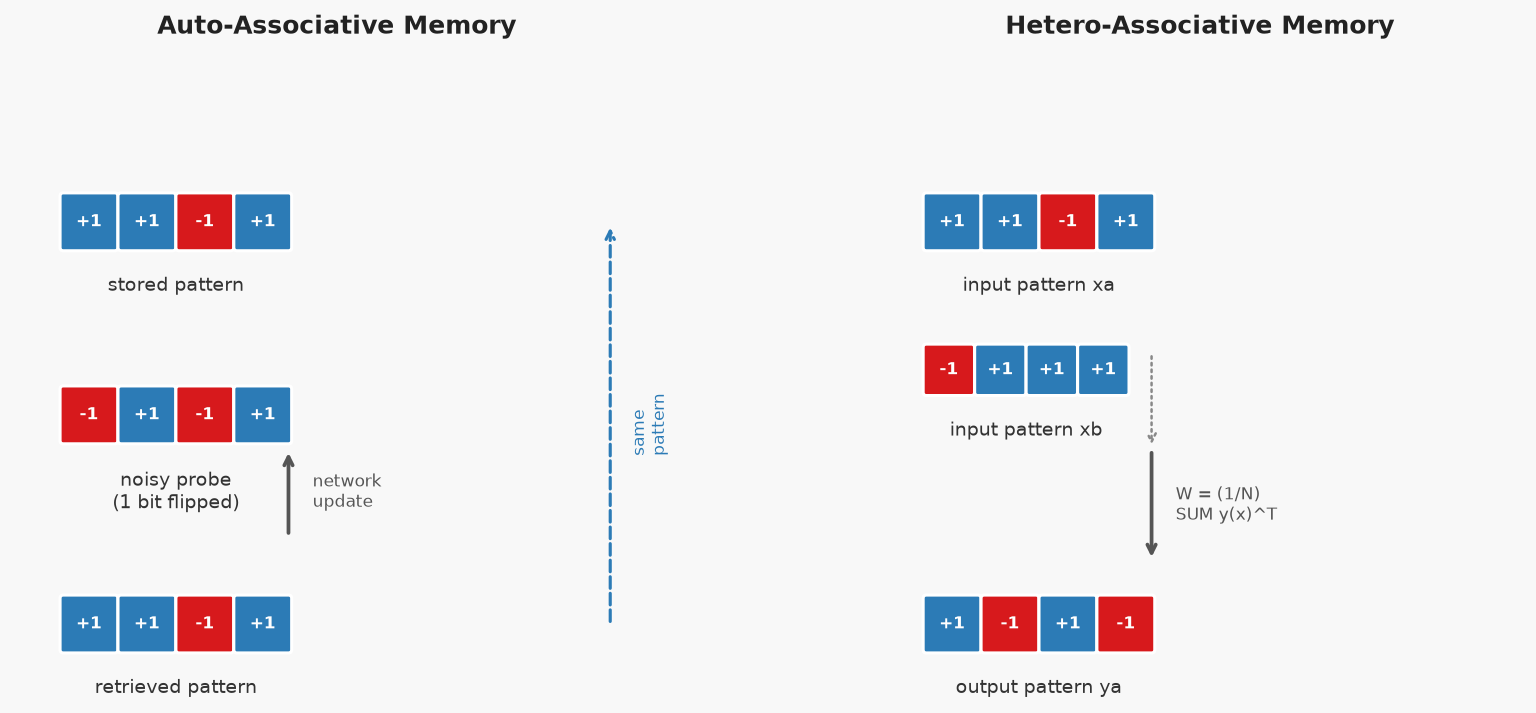
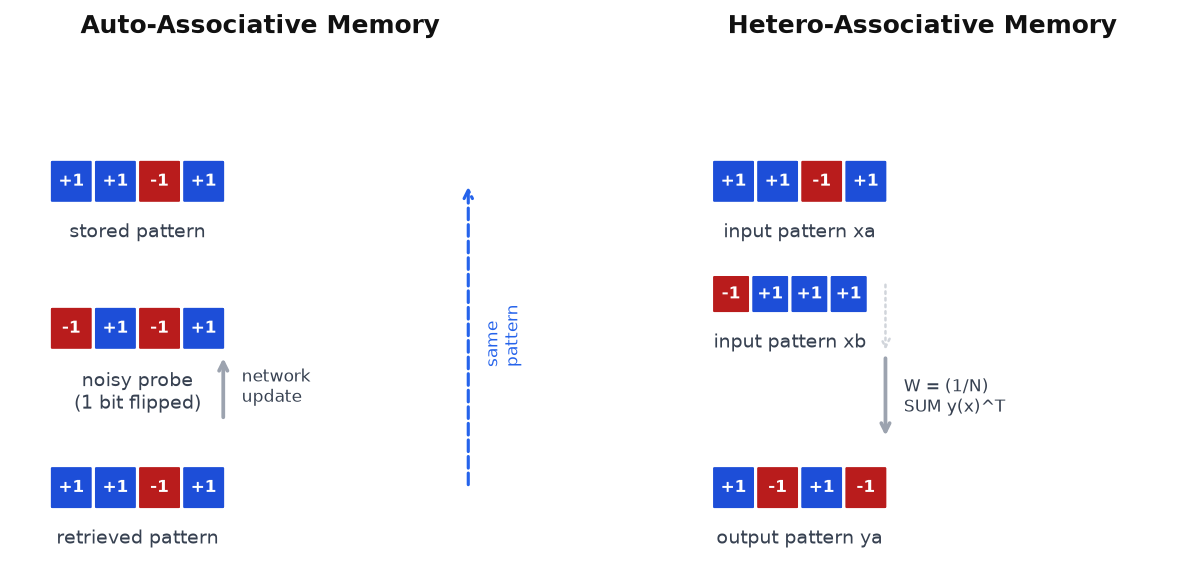
update note 18: convert all diagrams to light theme

diff --git a/notes/scripts/plot_associative_memory_types.py b/notes/scripts/plot_associative_memory_types.py
@@ -2,13 +2,13 @@ import matplotlib.pyplot as plt
 import matplotlib.patches as mpatches
 import os
 
-fig, axes = plt.subplots(1, 2, figsize=(12, 5))
-fig.patch.set_facecolor('#f8f8f8')
+fig, axes = plt.subplots(1, 2, figsize=(9, 4))
+fig.patch.set_facecolor('white')
 
 def draw_pattern(ax, x, y, pattern, label, color, size=0.32):
     n = len(pattern)
     for i, val in enumerate(pattern):
-        col = '#2c7bb6' if val == 1 else '#d7191c'
+        col = '#1d4ed8' if val == 1 else '#b91c1c'
         rect = mpatches.FancyBboxPatch(
             (x + i * (size + 0.04), y), size, size,
             boxstyle="round,pad=0.02",
@@ -19,7 +19,7 @@ def draw_pattern(ax, x, y, pattern, label, color, size=0.32):
                 '+1' if val == 1 else '-1',
                 ha='center', va='center', fontsize=8, color='white', fontweight='bold')
     total_w = n * (size + 0.04) - 0.04
-    ax.text(x + total_w / 2, y - 0.18, label, ha='center', va='top', fontsize=9, color='#333333')
+    ax.text(x + total_w / 2, y - 0.18, label, ha='center', va='top', fontsize=9, color='#374151')
 
 # ---- Left panel: Auto-associative ----
 ax = axes[0]
@@ -27,8 +27,8 @@ ax.set_xlim(0, 4)
 ax.set_ylim(0, 4)
 ax.set_aspect('equal')
 ax.axis('off')
-ax.set_facecolor('#f8f8f8')
-ax.set_title('Auto-Associative Memory', fontsize=12, fontweight='bold', pad=10, color='#222222')
+ax.set_facecolor('white')
+ax.set_title('Auto-Associative Memory', fontsize=12, fontweight='bold', pad=10, color='#111111')
 
 # Stored pattern
 draw_pattern(ax, 0.3, 2.8, [1, 1, -1, 1], 'stored pattern', '#2c7bb6')
@@ -39,13 +39,12 @@ draw_pattern(ax, 0.3, 0.3, [1, 1, -1, 1], 'retrieved pattern', '#2c7bb6')
 
 # Arrows
 ax.annotate('', xy=(1.7, 1.55), xytext=(1.7, 1.0),
-            arrowprops=dict(arrowstyle='->', color='#555555', lw=1.8))
-ax.text(1.85, 1.28, 'network\nupdate', fontsize=8, color='#555555', va='center')
+            arrowprops=dict(arrowstyle='->', color='#9ca3af', lw=1.8))
+ax.text(1.85, 1.28, 'network\nupdate', fontsize=8, color='#374151', va='center')
 
-# Brace / label showing same pattern
 ax.annotate('', xy=(3.7, 2.95), xytext=(3.7, 0.45),
-            arrowprops=dict(arrowstyle='->', color='#2c7bb6', lw=1.5, linestyle='dashed'))
-ax.text(3.82, 1.7, 'same\npattern', fontsize=8, color='#2c7bb6', va='center', rotation=90)
+            arrowprops=dict(arrowstyle='->', color='#2563eb', lw=1.5, linestyle='dashed'))
+ax.text(3.82, 1.7, 'same\npattern', fontsize=8, color='#2563eb', va='center', rotation=90)
 
 # ---- Right panel: Hetero-associative ----
 ax = axes[1]
@@ -53,26 +52,25 @@ ax.set_xlim(0, 4)
 ax.set_ylim(0, 4)
 ax.set_aspect('equal')
 ax.axis('off')
-ax.set_facecolor('#f8f8f8')
-ax.set_title('Hetero-Associative Memory', fontsize=12, fontweight='bold', pad=10, color='#222222')
+ax.set_facecolor('white')
+ax.set_title('Hetero-Associative Memory', fontsize=12, fontweight='bold', pad=10, color='#111111')
 
 # Input pattern xa
 draw_pattern(ax, 0.3, 2.8, [1, 1, -1, 1], 'input pattern xa', '#2c7bb6')
 # Output pattern ya (different)
-draw_pattern(ax, 0.3, 0.3, [1, -1, 1, -1], 'output pattern ya', '#1a9641')
+draw_pattern(ax, 0.3, 0.3, [1, -1, 1, -1], 'output pattern ya', '#15803d')
 
-# Arrow
 ax.annotate('', xy=(1.7, 0.85), xytext=(1.7, 1.55),
-            arrowprops=dict(arrowstyle='->', color='#555555', lw=1.8))
-ax.text(1.85, 1.2, 'W = (1/N)\nSUM y(x)^T', fontsize=8, color='#555555', va='center')
+            arrowprops=dict(arrowstyle='->', color='#9ca3af', lw=1.8))
+ax.text(1.85, 1.2, 'W = (1/N)\nSUM y(x)^T', fontsize=8, color='#374151', va='center')
 
-# Second pair
-draw_pattern(ax, 0.3, 1.9, [-1, 1, 1, 1], 'input pattern xb', '#2c7bb6', size=0.28)
+draw_pattern(ax, 0.3, 1.9, [-1, 1, 1, 1], 'input pattern xb', '#2563eb', size=0.28)
 ax.annotate('', xy=(1.7, 1.55), xytext=(1.7, 2.15),
-            arrowprops=dict(arrowstyle='->', color='#888888', lw=1.2, linestyle='dotted'))
+            arrowprops=dict(arrowstyle='->', color='#d1d5db', lw=1.2, linestyle='dotted'))
 
 plt.tight_layout(pad=1.5)
 out_dir = os.path.join(os.path.dirname(__file__), '..', 'images')
-plt.savefig(os.path.join(out_dir, 'associative_memory_types.png'), dpi=150, bbox_inches='tight')
+plt.savefig(os.path.join(out_dir, 'associative_memory_types.png'), dpi=150, bbox_inches='tight',
+            facecolor='white', edgecolor='none')
 plt.close()
 print("Saved associative_memory_types.png")

diff --git a/notes/scripts/plot_associative_memory_capacity.py b/notes/scripts/plot_associative_memory_capacity.py
@@ -46,32 +46,31 @@ P_values = list(range(1, 31))
 pn_ratios = [p / N for p in P_values]
 success_rates = simulate_capacity(N, P_values)
 
-fig, ax = plt.subplots(figsize=(8, 5))
-fig.patch.set_facecolor('#f8f8f8')
-ax.set_facecolor('#f8f8f8')
+fig, ax = plt.subplots(figsize=(6, 3.5))
+fig.patch.set_facecolor('white')
+ax.set_facecolor('white')
 
-ax.plot(pn_ratios, success_rates, color='#2c7bb6', linewidth=2.5, marker='o', markersize=5, label='Retrieval success rate')
+ax.plot(pn_ratios, success_rates, color='#2563eb', linewidth=2.5, marker='o', markersize=5, label='Retrieval success rate')
 
-# Shade reliable region
-ax.axvspan(0, 0.138, alpha=0.12, color='#1a9641', label='Reliable region (P/N < 0.14)')
-ax.axvspan(0.138, max(pn_ratios), alpha=0.10, color='#d7191c', label='Degraded region (P/N > 0.14)')
+ax.axvspan(0, 0.138, alpha=0.12, color='#15803d', label='Reliable region (P/N < 0.14)')
+ax.axvspan(0.138, max(pn_ratios), alpha=0.10, color='#dc2626', label='Degraded region (P/N > 0.14)')
+ax.axvline(x=0.138, color='#dc2626', linewidth=1.8, linestyle='--', label='Capacity limit P/N = 0.14')
 
-# Capacity line
-ax.axvline(x=0.138, color='#d7191c', linewidth=1.8, linestyle='--', label='Capacity limit P/N = 0.14')
-
-ax.set_xlabel('P / N  (patterns stored per neuron)', fontsize=11)
-ax.set_ylabel('Retrieval success rate', fontsize=11)
-ax.set_title('Hopfield Network Storage Capacity\n(N = 100 neurons, 200 trials per point)', fontsize=11, fontweight='bold')
+ax.set_xlabel('P / N  (patterns stored per neuron)', fontsize=11, color='#374151')
+ax.set_ylabel('Retrieval success rate', fontsize=11, color='#374151')
+ax.set_title('Hopfield Network Storage Capacity\n(N = 100 neurons, 200 trials per point)', fontsize=11, fontweight='bold', color='#111111')
 ax.set_xlim(0, max(pn_ratios))
 ax.set_ylim(-0.05, 1.1)
-ax.legend(fontsize=9, loc='upper right')
-ax.grid(True, alpha=0.3, linestyle='--')
+ax.legend(fontsize=9, loc='upper right', facecolor='white', edgecolor='#d1d5db', labelcolor='#111111')
+ax.grid(True, alpha=0.3, linestyle='--', color='#d1d5db')
+ax.tick_params(colors='#374151')
 
 for spine in ax.spines.values():
-    spine.set_edgecolor('#cccccc')
+    spine.set_edgecolor('#d1d5db')
 
 plt.tight_layout()
 out_dir = os.path.join(os.path.dirname(__file__), '..', 'images')
-plt.savefig(os.path.join(out_dir, 'associative_memory_capacity.png'), dpi=150, bbox_inches='tight')
+plt.savefig(os.path.join(out_dir, 'associative_memory_capacity.png'), dpi=150, bbox_inches='tight',
+            facecolor='white', edgecolor='none')
 plt.close()
 print("Saved associative_memory_capacity.png")
